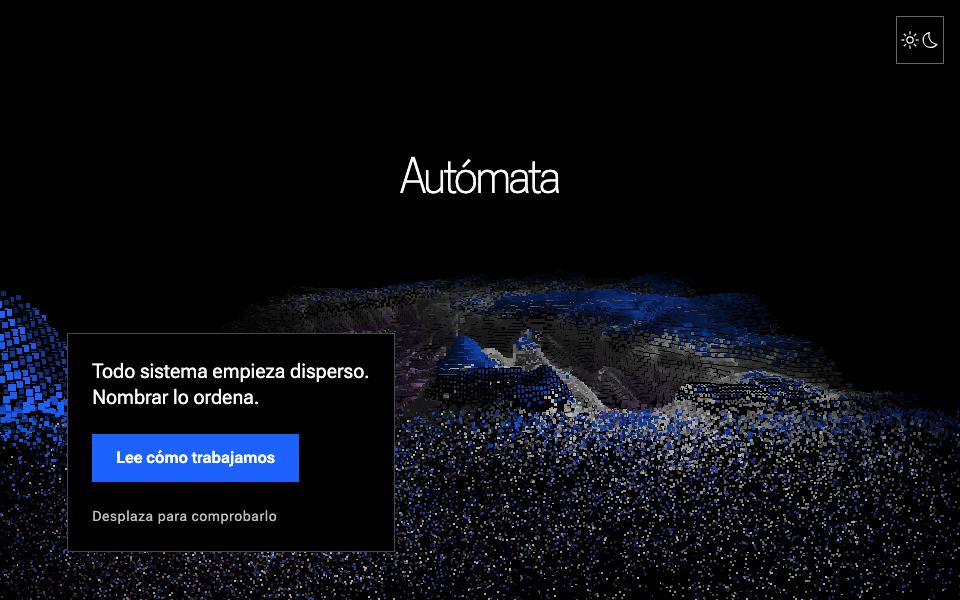
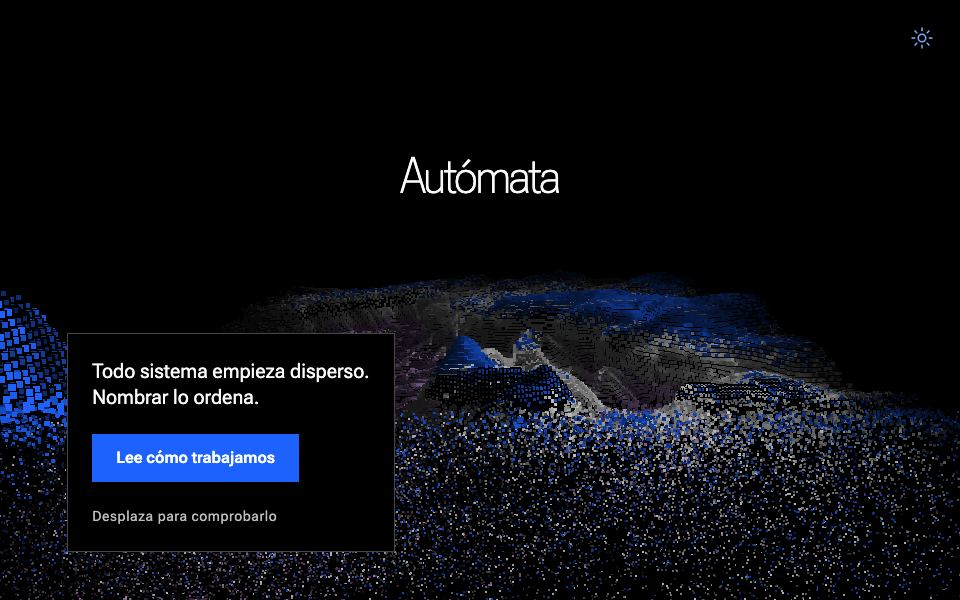
fix: el botón de tema de las portadas es el Button plano de solo ícono de ALMA
Mostraba el sol y la luna a la vez en tema oscuro, y era un cuadrado con borde. Ahora es un círculo sin contorno con un ícono a la vez. Vistas previas de los ejemplos rehechas.

Changed region(s): [[0.0, 0.66, 1.0, 1.0], [0.9375, 0.03, 1.0, 0.09]]

diff --git a/site/escaneo.css b/site/escaneo.css
@@ -1,11 +1,14 @@
 /* A page with a scanned thing at its middle, drawn in dots, and what the entity says laid out around it. */
 html { color-scheme: dark; scroll-behavior: smooth; } html[data-theme="light"] { color-scheme: light; }
 body { margin: 0; background: var(--ui-02); color: var(--text-01); font-family: var(--font-flex), system-ui, sans-serif; font-weight: var(--font-weight-body); font-variation-settings: 'wdth' var(--font-width), 'GRAD' var(--font-grade); line-height: 1.5; }
-/* Its one control: the theme, light or dark. It stays at the top corner of the page. */
-.escaneo__tema { position: fixed; top: calc(var(--space-16) + env(safe-area-inset-top, 0px)); right: var(--space-16); z-index: 3; display: inline-flex; align-items: center; justify-content: center; width: var(--space-48); height: var(--space-48); padding: 0; color: var(--text-01); background: var(--ui-02); border: 1px solid var(--border-control); border-radius: var(--radius-button); cursor: pointer; transition: border-color var(--duration-fast-02) var(--easing-standard-productive); }
-.escaneo__tema:hover { border-color: var(--text-01); }
+/* Its one control: the theme, light or dark. It stays at the top corner of the page. It is ALMA's Button, plain and icon
+   only: a circle with no outline and one icon, the sun on a dark page and the moon on a light one. It sits on the page's
+   own ground, so that it is read over the dots. */
+.escaneo__tema { position: fixed; top: calc(var(--space-16) + env(safe-area-inset-top, 0px)); right: var(--space-16); z-index: 3; display: inline-flex; align-items: center; justify-content: center; width: var(--size-touch-min); height: var(--size-touch-min); padding: 0; color: var(--button-plain-text); background-color: var(--ui-02); border: 0; border-radius: var(--radius-pill); cursor: pointer; transition: box-shadow var(--duration-fast-02) var(--easing-standard-productive); }
+.escaneo__tema:hover { background-image: linear-gradient(var(--button-plain-bg-hover), var(--button-plain-bg-hover)); }
+.escaneo__tema:active { background-image: linear-gradient(var(--button-plain-bg-active), var(--button-plain-bg-active)); box-shadow: inset 0 0 0 2px var(--button-plain-text); }
 .escaneo__tema:focus-visible { outline: 2px solid var(--focus); outline-offset: 2px; }
-.escaneo__tema span { display: inline-flex; } .escaneo__de-claro, [data-theme="light"] .escaneo__de-oscuro { display: none; } [data-theme="light"] .escaneo__de-claro { display: inline-flex; }
+.escaneo__tema .escaneo__de-oscuro { display: inline-flex; } .escaneo__tema .escaneo__de-claro, [data-theme="light"] .escaneo__tema .escaneo__de-oscuro { display: none; } [data-theme="light"] .escaneo__tema .escaneo__de-claro { display: inline-flex; }
 .escaneo { position: relative; height: 320vh; }
 .escaneo__fija { position: sticky; top: 0; height: 100vh; height: 100svh; overflow: hidden; display: grid; }
 .escaneo__fija > * { grid-area: 1 / 1; position: relative; }

diff --git a/site/escaneo.js b/site/escaneo.js
@@ -146,7 +146,7 @@
   // Its theme: dark unless the page it is in, or the person, says light. The person's choice is kept for the next visit.
   var raiz = document.documentElement, boton = document.querySelector('.escaneo__tema'), LLAVE = 'alma-portada-tema';
   function guardado() { try { return localStorage.getItem(LLAVE); } catch (e) { return null; } }
-  function nombra() { if (boton) boton.setAttribute('aria-label', raiz.getAttribute('data-theme') === 'light' ? 'Usar tema oscuro' : 'Usar tema claro'); }
+  function nombra() { if (!boton) return; var dice = raiz.getAttribute('data-theme') === 'light' ? 'Usar tema oscuro' : 'Usar tema claro'; boton.setAttribute('aria-label', dice); boton.title = dice; }
   function viste(t) { raiz.setAttribute('data-theme', t); raiz.style.colorScheme = t; nombra(); }
   var elegido = guardado(); viste(elegido === 'light' || elegido === 'dark' ? elegido : raiz.getAttribute('data-theme') === 'light' ? 'light' : 'dark');
   if (boton) boton.addEventListener('click', function () { var t = raiz.getAttribute('data-theme') === 'light' ? 'dark' : 'light'; try { localStorage.setItem(LLAVE, t); } catch (e) { /* it is simply not kept */ } viste(t); });

diff --git a/site/recorrido.js b/site/recorrido.js
@@ -141,7 +141,7 @@
   // Its one control: the theme, light or dark, kept for the next visit.
   var raiz = document.documentElement, boton = document.querySelector('.escaneo__tema'), LLAVE = 'alma-portada-tema';
   function guardado() { try { return localStorage.getItem(LLAVE); } catch (e) { return null; } }
-  function nombra() { if (boton) boton.setAttribute('aria-label', raiz.getAttribute('data-theme') === 'light' ? 'Usar tema oscuro' : 'Usar tema claro'); }
+  function nombra() { if (!boton) return; var dice = raiz.getAttribute('data-theme') === 'light' ? 'Usar tema oscuro' : 'Usar tema claro'; boton.setAttribute('aria-label', dice); boton.title = dice; }
   function pone(t) { raiz.setAttribute('data-theme', t); raiz.style.colorScheme = t; nombra(); }
   var elegido = guardado(); pone(elegido === 'light' || elegido === 'dark' ? elegido : raiz.getAttribute('data-theme') === 'light' ? 'light' : 'dark');
   if (boton) boton.addEventListener('click', function () { var t = raiz.getAttribute('data-theme') === 'light' ? 'dark' : 'light'; try { localStorage.setItem(LLAVE, t); } catch (e) {} pone(t); });
